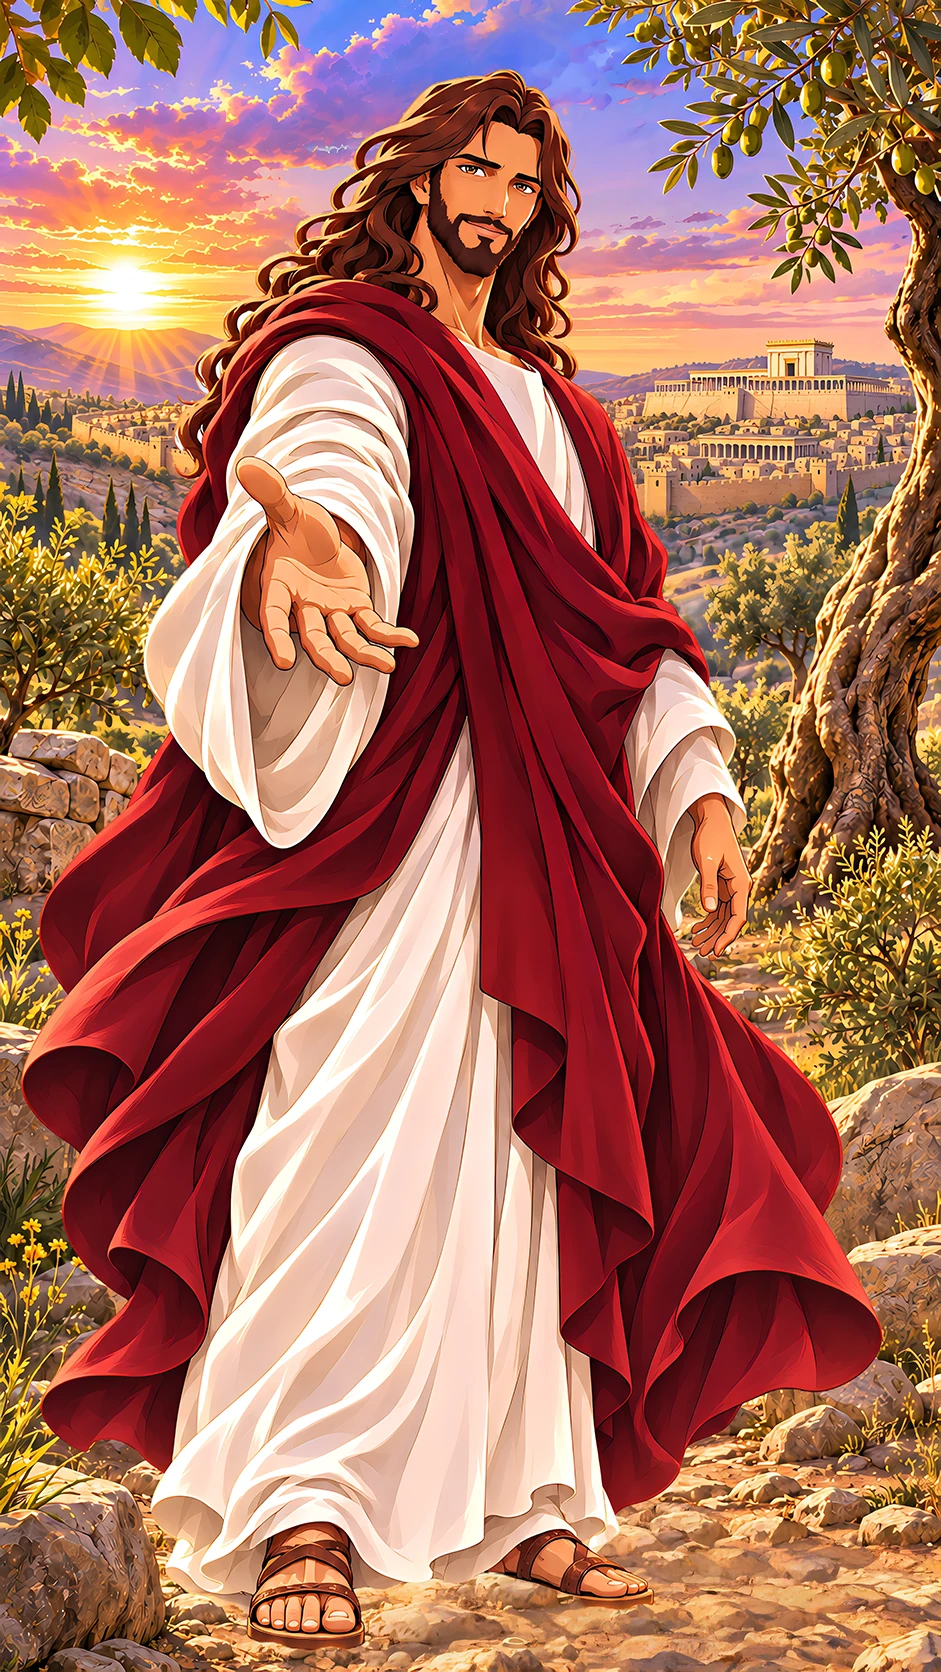
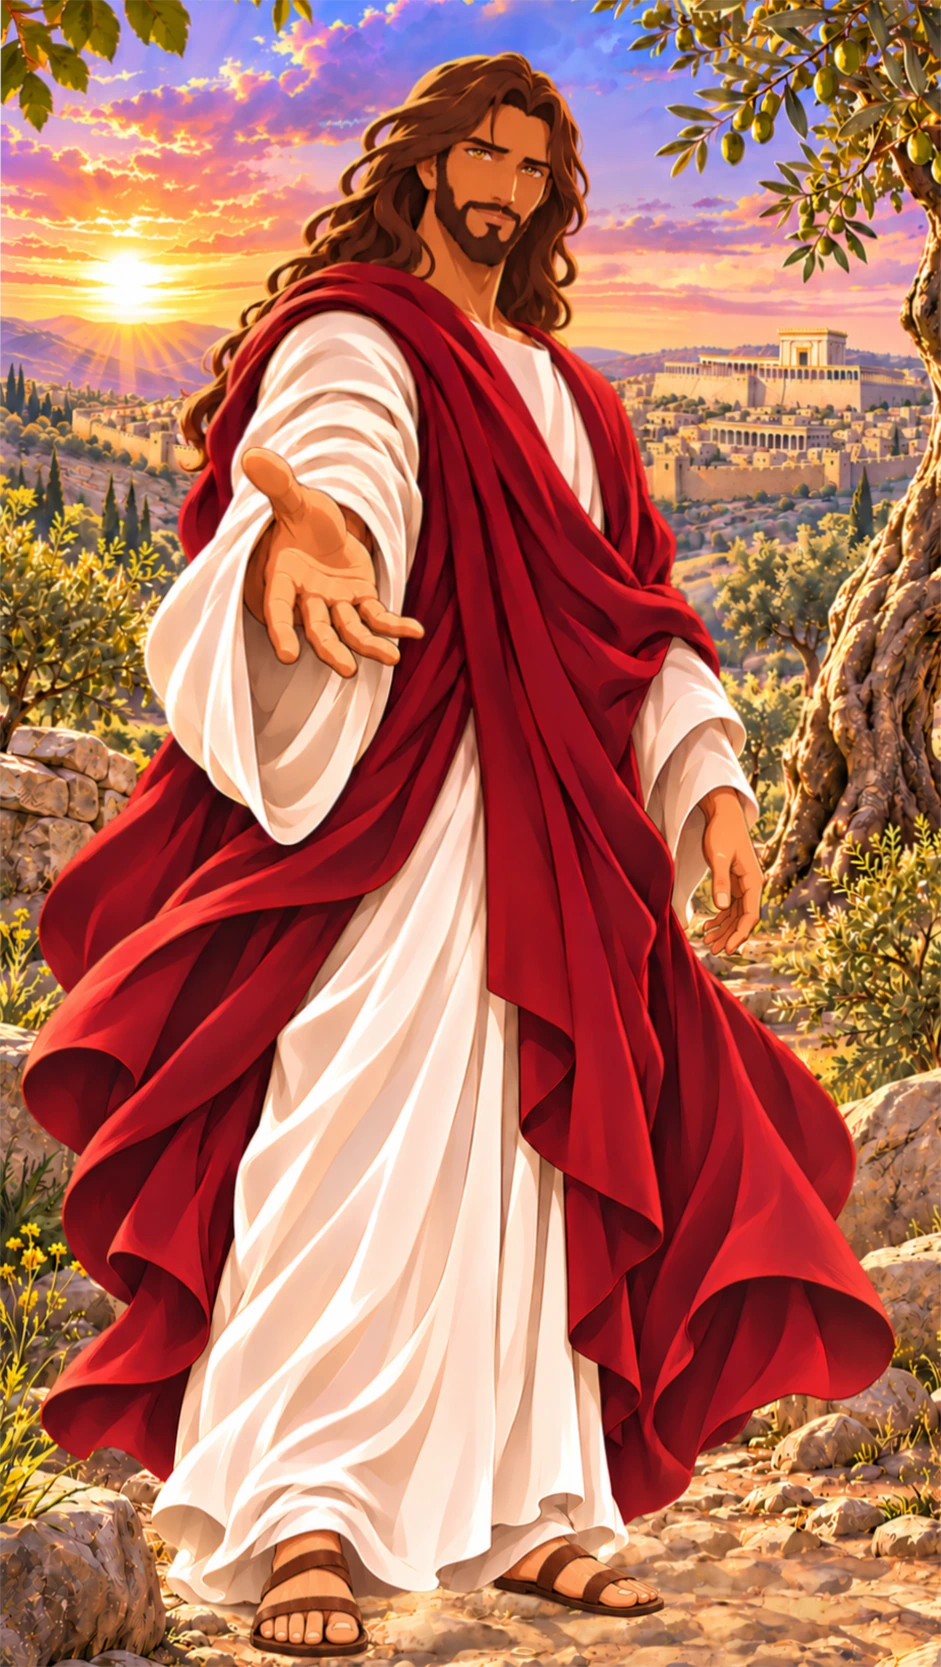
Update Jesus portraits and card ratio

diff --git a/src/components/CharacterCatalog.tsx b/src/components/CharacterCatalog.tsx
@@ -91,7 +91,7 @@ function CharacterCard({ character }: { character: PublicCharacter }) {
   );
 
   return (
-    <article className={`character-card${isPortrait ? " is-portrait" : ""}${expanded ? " is-expanded" : ""}`}>
+    <article className={`character-card${isPortrait ? " is-portrait" : ""}${isJesus ? " is-jesus" : ""}${expanded ? " is-expanded" : ""}`}>
       <button
         type="button"
         className="character-portrait-trigger"

diff --git a/src/app/character-cards.css b/src/app/character-cards.css
@@ -15,6 +15,10 @@
   aspect-ratio: 941 / 1908;
 }
 
+.character-card.is-jesus:not(.is-expanded) {
+  aspect-ratio: 941 / 1667;
+}
+
 .character-portrait-trigger {
   position: relative;
   display: block;
